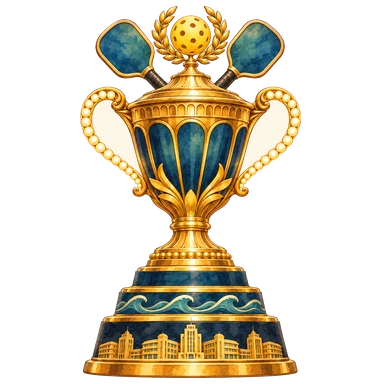
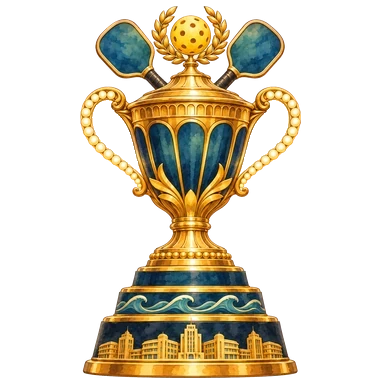
R11 fixes: BUILD_TYPE dotted env read, court Pan disabled while a tutorial line shows, trophy handle images

diff --git a/frontend/app/match.tsx b/frontend/app/match.tsx
@@ -477,6 +477,8 @@ export default function Match() {
   const pan = useMemo(
     () =>
       Gesture.Pan()
+        // A tutorial lesson line is showing: let the full-screen tap area take every touch.
+        .enabled(tutLines === null)
         .minDistance(0)
         .onBegin(() => {
           runOnJS(onGestureBegin)();
@@ -490,7 +492,7 @@ export default function Match() {
         .onFinalize(() => {
           runOnJS(resetArmed)();
         }),
-    [onGestureUpdate, onGestureEnd, resetArmed, onGestureBegin],
+    [onGestureUpdate, onGestureEnd, resetArmed, onGestureBegin, tutLines],
   );
 
   const resetEnd = () => {

diff --git a/frontend/src/game/services/native.ts b/frontend/src/game/services/native.ts
@@ -29,7 +29,8 @@ export function platformOS(): string {
 }
 
 // internal (development / preview builds) or store (production); Expo Go / web: "dev".
-export const BUILD_TYPE: string = (typeof process !== "undefined" && process.env?.EXPO_PUBLIC_BUILD_TYPE) || "dev";
+// Plain dotted form: Expo inlines process.env.EXPO_PUBLIC_* only when written exactly like this.
+export const BUILD_TYPE: string = process.env.EXPO_PUBLIC_BUILD_TYPE || "dev";
 
 function load<T>(get: () => T): T | null {
   if (!isNativeBuild()) return null;
